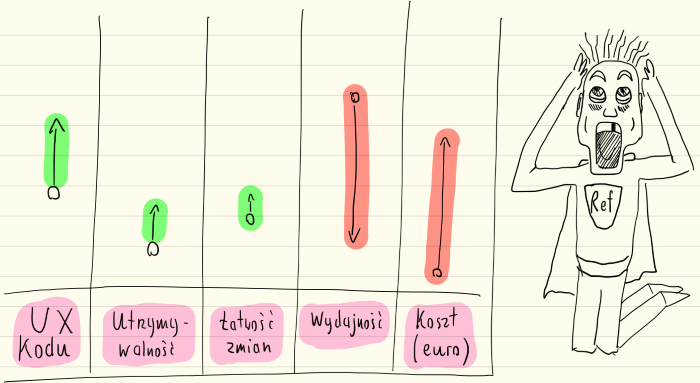
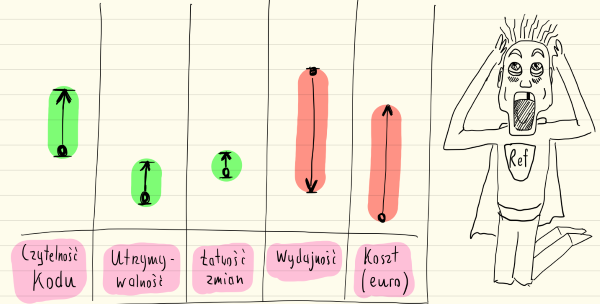
Final correction pre-release

diff --git a/scraps/refaktor-todo.md b/scraps/refaktor-todo.md
@@ -17,3 +17,60 @@ date: 2018-05-18
     <zaufanie>
     <korzyści - demo 10 mln czy refaktor teraz>
     <używanie argumentów pod kątem korzyści biznesu>
+
+
+===============
+
+Pamiętacie kilka powodów refaktoryzacji, które wymieniliśmy?
+
+* Wydajność (performance)
+* Czytelność kodu
+* Utrzymywalność
+* Prędkość wdrożenia
+* Łatwość zmian kodu
+
+Po czym możemy poznać, że to się udało?
+
+Zacznijmy od czegoś prostego - **wydajność**.
+
+Załóżmy, że mamy aplikację webową i mamy odpowiedzi sięgające od 500 milisekund do 5 sekund, przy założeniu, że mamy internet. [Za raportem gomez](http://www.mcrinc.com/Documents/Newsletters/201110_why_web_performance_matters.pdf), jeśli odpowiedź strony internetowej przekroczy 3 sekundy, około 40% klientów opuści stronę internetową bez czekania.
+
+Więc z perspektywy marketingu, _jak najmniejszy czas ładowania i reakcji strony_ liczony w sekundach jest _skalą wydajności_.
+
+* **wydajność**: skala = sekundy; jak najmniejszy czas ładowania i reakcji strony internetowej na działania użytkownika
+
+To może... **użyteczność / czytelność kodu**?
+
+Hm, czemu zależy nam na czytelności kodu? Czy to _światło_ (wynik) czy _przełącznik_ (środek do celu)? Powiedzmy na potrzeby przykładu, że czytelność kodu jest nam potrzebna, by wiedzieć gdzie mamy wprowadzać zmiany oraz by szybciej móc wdrożyć nowych ludzi do projektu.
+
+Szybsze wdrożenie ludzi do projektu ma potencjalnie prostą skalę - jak najkrótszy czas wdrażania ludzi do projektu, mierzony w godzinach.
+
+Ale jak określimy, czy dany programista jest wdrożony? Może... po prędkości przeprowadzania zmian? Wtedy to by było coś w stylu _"ile czasu (godziny) nowemu programiście zajmuje wprowadzenie Niewielkiej Zmiany do kodu"?_ Nie jest to idealne (i da się lepiej rozpisać), ale pokazuje na czym nam zależy.
+
+Jaka jest skala "gdzie mamy wprowadzać zmiany"?
+
+Może ilość pytań zadanych innym członkom zespołu? Może czas zmarnowany na szukanie miejsca gdzie wprowadzić zmianę? To drugie brzmi sensowniej. Może warto je powiązać? Na potrzeby przykładu zostanę przy tym drugim.
+
+Czyli:
+
+* **czytelność kodu** jest skalą złożoną:
+    * **szybsze wdrożenie ludzi do projektu**: skala = godziny; ile czasu zajmuje nowemu programiście wprowadzenie Niewielkiej Zmiany do kodu (cel: jak najmniej)
+    * **gdzie wprowadzić zmianę**: skala = godziny; ile czasu zostało zmarnowane na połapaniu się, gdzie wprowadzić zmianę (cel: jak najmniej)
+
+![Dekompozycja - skomplikowana wartość rozkłada się na składowe elementy (to, co powyżej opisałem jako tekst)](/img/1805/180518-scale.png)
+
+Czy to powyższe jest perfekcyjne? Nie. Ale jeśli rozmawiam z kolegą o refaktoryzacji i ów mówi "ta zmiana poprawi czytelność kodu", to ja _nie mam pojęcia o czym on mówi_. Moja czytelność kodu i jego czytelność kodu mogą być zupełnie innymi rzeczami. **To zwłaszcza jest problemem, gdy rozmawiają ze sobą osoba techniczna i nietechniczna**
+
+Nawet tak pobieżne doprecyzowanie jak to co zrobiłem przynosi korzyści. To jest to, co próbuję tu pokazać - **nie musimy zrobić idealnego doprecyzowania**. Wystarczy nam doprecyzowanie lepsze niż to, co mamy, jak długo zmniejsza stożek nieoznaczoności. Wystarczy, że wiemy co jest ważnego w naszej refaktoryzacji.
+
+Co ważne - musimy mieć informację o stanie aktualnym, sprzed refaktoryzacji:
+
+* W pokoju jest ciemno (więc proszę o zapalenie światła, by było jasno).
+* Czas odpowiedzi strony to 5 minut (więc proszę o zredukowanie poniżej 2 minut).
+* Średnio marnujemy godzinę szukając miejsca do wprowadzenia zmiany (więc proszę o drastyczną redukcję tego czasu).
+
+Posiadanie tej informacji o stanie aktualnym pozwala PORÓWNAĆ wynik po refaktoryzacji ze stanem sprzed refaktoryzacji. Pozwala udowodnić, że to co zrobiliśmy było przydatne i korzystne. Że faktycznie dostarczyliśmy wartość odbiorcy.
+
+Pozwala to obronić naszą refaktoryzację przed kolegami, przełożonymi i klientem na poziomie obserwowalnych wyników, nie "czy ktoś uważa to za ładne, czy nie".
+
+**Jak tego użyć** - Czy wiemy co jest środkiem a co celem? Czy wiemy jak udowodnić, że osiągnęliśmy sukces zgodnie z celem? Czy wiemy jak zbadać, czy poprawiliśmy sytuację czy ją pogorszyliśmy? Czy znamy punkt startowy i potrafimy go mniej więcej umiejscowić na skali?

diff --git a/_posts/2018-05-18-oplacalna-refaktoryzacja-co-osiagnac.md b/_posts/2018-05-18-oplacalna-refaktoryzacja-co-osiagnac.md
@@ -159,13 +159,17 @@ Zapalenie czy zgaszenie światła jest stosunkowo prosto udowodnić. Jak jednak 
 
 _A czemu robimy tą refaktoryzację? Na które parametry chcemy wpłynąć? Na czym nam zależy?_
 
-Spójrzmy na taki parametr jak **wydajność**. Tutaj sprawa jest stosunkowo prosta - załóżmy, że mamy aplikację webową i mamy odpowiedzi sięgające od 500 milisekund do 5 sekund, przy założeniu, że mamy internet. [Za raportem gomez z mcrinc.com](http://www.mcrinc.com/Documents/Newsletters/201110_why_web_performance_matters.pdf), jeśli odpowiedź strony internetowej przekroczy 3 sekundy, około 40% klientów opuści stronę internetową bez czekania.
+Spójrzmy więc na taki parametr jak **wydajność**.
+
+Tutaj sprawa jest stosunkowo prosta - załóżmy, że mamy aplikację webową i mamy odpowiedzi sięgające od 500 milisekund do 5 sekund, przy założeniu, że mamy internet. [Za raportem gomez z mcrinc.com](http://www.mcrinc.com/Documents/Newsletters/201110_why_web_performance_matters.pdf), jeśli odpowiedź strony internetowej przekroczy 3 sekundy, około 40% klientów opuści stronę internetową bez czekania.
 
 Więc z perspektywy marketingu, _jak najmniejszy czas ładowania i reakcji strony_ liczony w sekundach jest _skalą wydajności_.
 
 Jak zatem udowodnić sukces refaktoryzacji? Ano, można doprowadzić do tego, że odpowiedź strony będzie trwała nie "do 5 sekund" a "do 2 sekund". W tym momencie mamy prosty, mierzalny, twardy dowód. Nasze działanie przyniosło korzyść biznesową pod kątem wydajności.
 
-Dużo trudniej jest udowodnić coś takiego jak **Łatwość zmian kodu**. Spróbujmy jednak pomyśleć na ten temat.
+Wydajność jest _parametrem prostym_ - da się znaleźć jeden wymiar, który można udowodnić. Nie dla każdego parametru mamy taki luksus.
+
+Dużo trudniej jest udowodnić coś takiego jak **łatwość zmian kodu**. Nie da się określić jednej rzeczy, po której poznamy sukces czegoś takiego - jest to _parametr złożony_. Jednak z jakiegoś powodu nam zależy na tej łatwości zmian, więc jak trochę pomyślimy, powinno dać się to zdekomponować na coś, co możemy już udowodnić.
 
 Gdy ja myślę o łatwości (czy trudności) zmian kodu, widzę takie cztery rzeczy:
 
@@ -206,7 +210,7 @@ Z tego udało się nam wyciągnąć główne cele tej refaktoryzacji:
 1. musi być możliwość szybkiego dodania nowego Ekstraktora
 2. nie możemy zdecydowanie pogorszyć czytelności i elastyczności kodu
 
-Sprawdziliśmy więc ile czasu zajmuje dodanie Ekstraktora. 3-5 godzin. Niefart.
+Sprawdziliśmy więc ile czasu zajmuje dodanie Ekstraktora. 3-5 godzin. To faktycznie nieakceptowalne.
 
 Niestety, z uwagi na sytuację refaktoryzacja była najlepszym rozwiązaniem - nie da się ustabilizować danych czy nie dodać nowych funkcjonalności do aplikacji. Więc - działamy.
 
@@ -258,6 +262,6 @@ Powodzenia!
 | Czas poświęcony na napisanie i korektę artykułu               |  8 godzin |
 | Liczba osób korygujących artykuł (poza autorem)               |  1 osoba  |
 | Czas poświęcony na przebudowę artykułu później                |  2 godziny |
-| Liczba osób korygujących artykuł po publikacji (poza autorem) |  osoby  |
-| Liczba błędów / modyfikacji artykułu po wydaniu               |  błędów |
-| Czas poświęcony na korekcję błędów                            |  godziny |
+| Liczba osób korygujących artykuł po publikacji (poza autorem) |  ? osoby  |
+| Liczba błędów / modyfikacji artykułu po wydaniu               |  ? błędów |
+| Czas poświęcony na korekcję błędów                            |  ? godziny |
